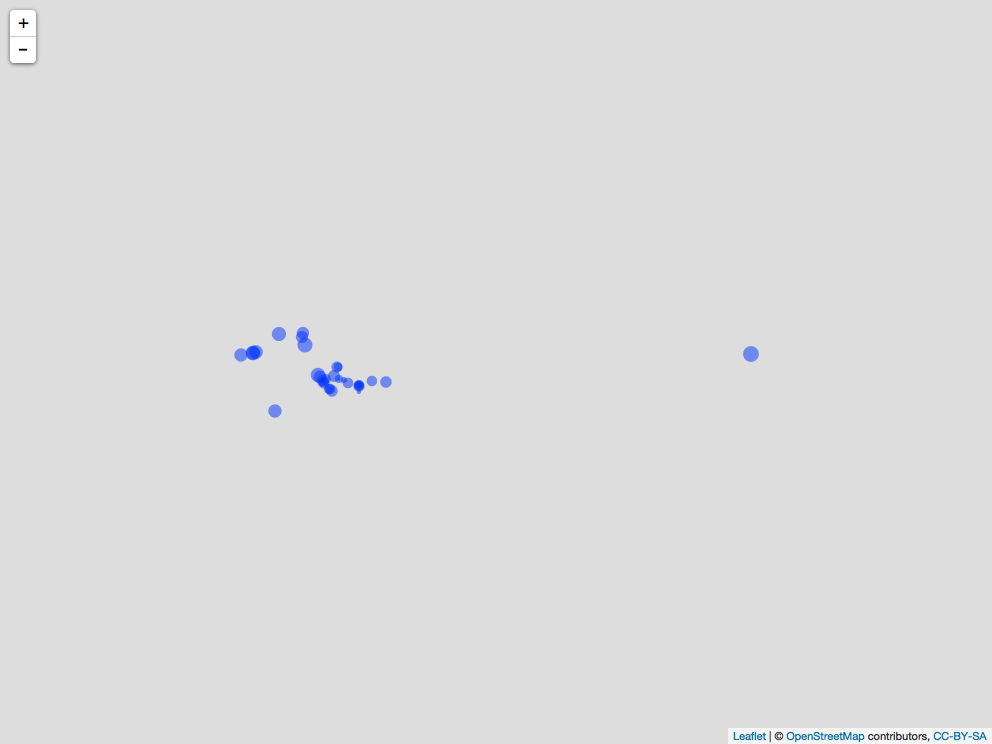
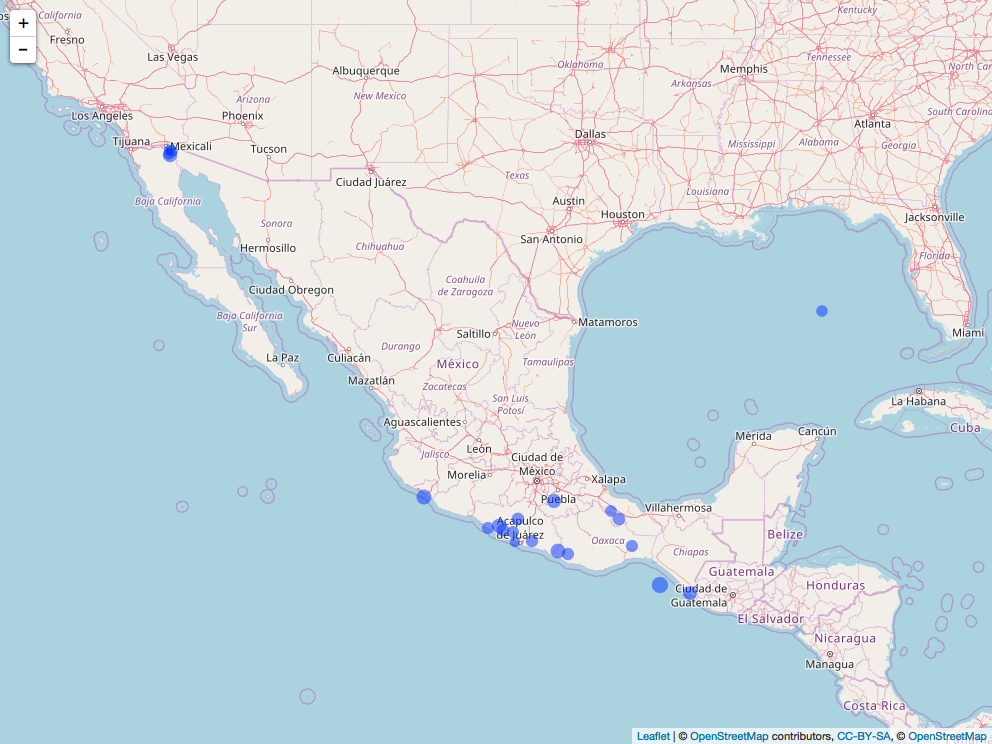
Updated to fix leaflet image generation issue

diff --git a/README.md b/README.md
@@ -36,7 +36,7 @@ data %>%
         theme_timeline() +
         labs(size = "Richter scale value", color = "# deaths") + 
         scale_x_date(limits = c(lubridate::ymd("2005-01-01"), 
-                                lubridate::ymd("2020-01-01")))
+                                lubridate::ymd("2018-01-01")))
 ```
 
 ![](README-Earthquake%20Timeline%20Plot-1.png)
@@ -46,7 +46,7 @@ We can also plot the individual earthquakes on an interactive `leaflet` map incl
 ``` r
 data %>% 
   eq_clean_data() %>% 
-  dplyr::filter(COUNTRY == "USA" & lubridate::year(DATE) >= 2005) %>% 
+  dplyr::filter(COUNTRY == "MEXICO" & YEAR >= 2000) %>% 
   dplyr::mutate(popup_text = eq_create_label(.)) %>% 
   eq_map(annotation = "popup_text") -> map
 ```
